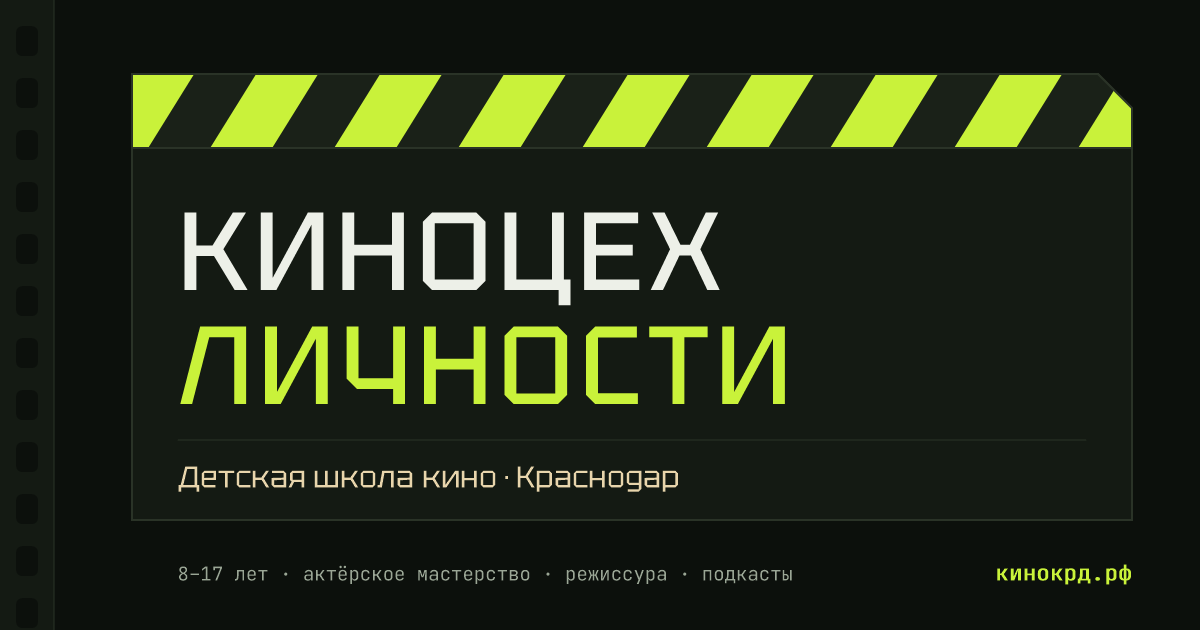
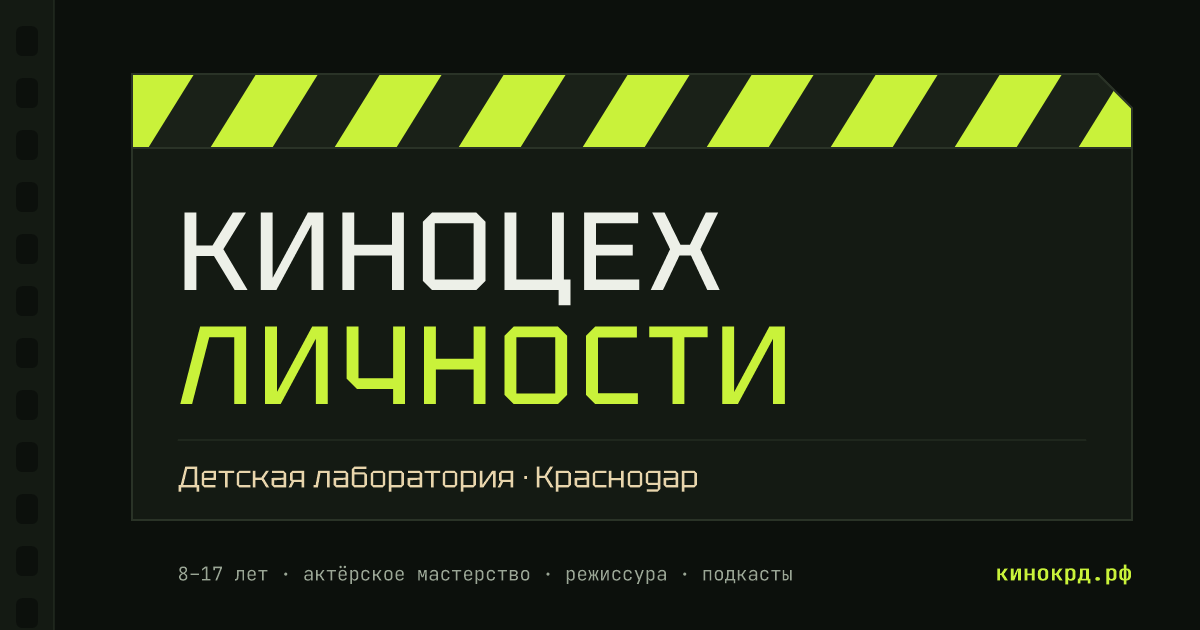
Новые заголовок и описание страницы
Заголовок вкладки — «Детская лаборатория». Описание для поиска и превью
приведено к формулировке заказчика. На обложке подпись «Детская лаборатория».

Changed region(s): [[0.2467, 0.7238, 0.5858, 0.7841]]

diff --git a/index.html b/index.html
@@ -3,9 +3,9 @@
 <head>
     <meta charset="UTF-8">
     <meta name="viewport" content="width=device-width, initial-scale=1.0">
-    <meta name="description" content="Киноцех личности — детская школа кино в Краснодаре. Лаборатория развития ребенка через кино: актерское мастерство, режиссура, подкасты. Дети 8–17 лет.">
+    <meta name="description" content="Киноцех личности — лаборатория развития ребенка через кино: актерское мастерство, режиссура, подкасты. Дети 8–17 лет.">
     <meta name="theme-color" content="#0C100C">
-    <title>Киноцех личности — Детская школа кино</title>
+    <title>Детская лаборатория</title>
 
     <!-- Основной адрес сайта — кинокрд.рф (в punycode, чтобы его понимали все краулеры). -->
     <link rel="canonical" href="https://xn--d1ahfbogp.xn--p1ai/">
@@ -16,16 +16,16 @@
     <meta property="og:site_name" content="Киноцех личности">
     <meta property="og:locale" content="ru_RU">
     <meta property="og:url" content="https://xn--d1ahfbogp.xn--p1ai/">
-    <meta property="og:title" content="Киноцех личности — детская школа кино в Краснодаре">
-    <meta property="og:description" content="Лаборатория развития ребёнка через кино: актёрское мастерство, режиссура, подкасты. Дети 8–17 лет.">
+    <meta property="og:title" content="Детская лаборатория">
+    <meta property="og:description" content="Киноцех личности — лаборатория развития ребенка через кино: актерское мастерство, режиссура, подкасты. Дети 8–17 лет.">
     <meta property="og:image" content="https://xn--d1ahfbogp.xn--p1ai/img/og-cover.png">
     <meta property="og:image:width" content="1200">
     <meta property="og:image:height" content="630">
-    <meta property="og:image:alt" content="Киноцех личности — детская школа кино, Краснодар">
+    <meta property="og:image:alt" content="Киноцех личности — детская лаборатория, Краснодар">
 
     <meta name="twitter:card" content="summary_large_image">
-    <meta name="twitter:title" content="Киноцех личности — детская школа кино в Краснодаре">
-    <meta name="twitter:description" content="Актёрское мастерство, режиссура, подкасты. Дети 8–17 лет.">
+    <meta name="twitter:title" content="Детская лаборатория">
+    <meta name="twitter:description" content="Киноцех личности — лаборатория развития ребенка через кино: актерское мастерство, режиссура, подкасты. Дети 8–17 лет.">
     <meta name="twitter:image" content="https://xn--d1ahfbogp.xn--p1ai/img/og-cover.png">
 
     <link rel="preconnect" href="https://fonts.googleapis.com">
